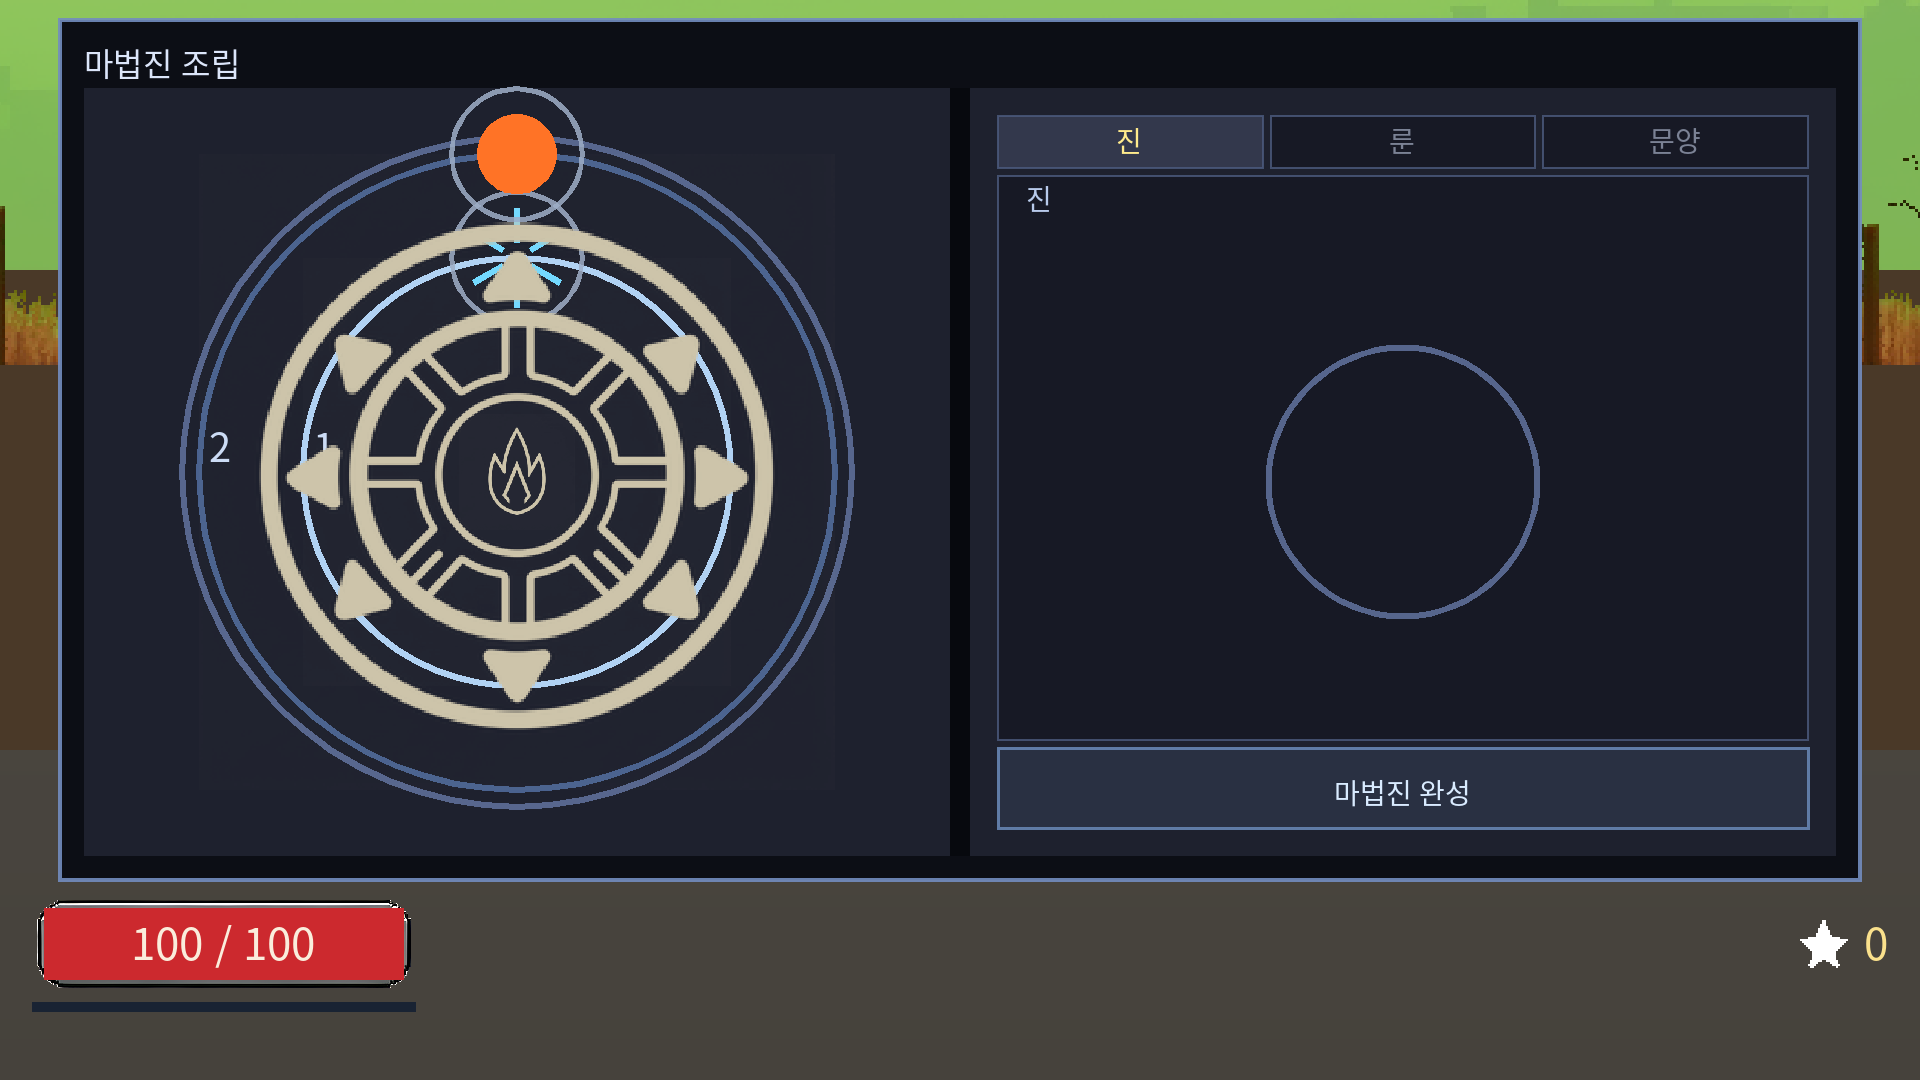
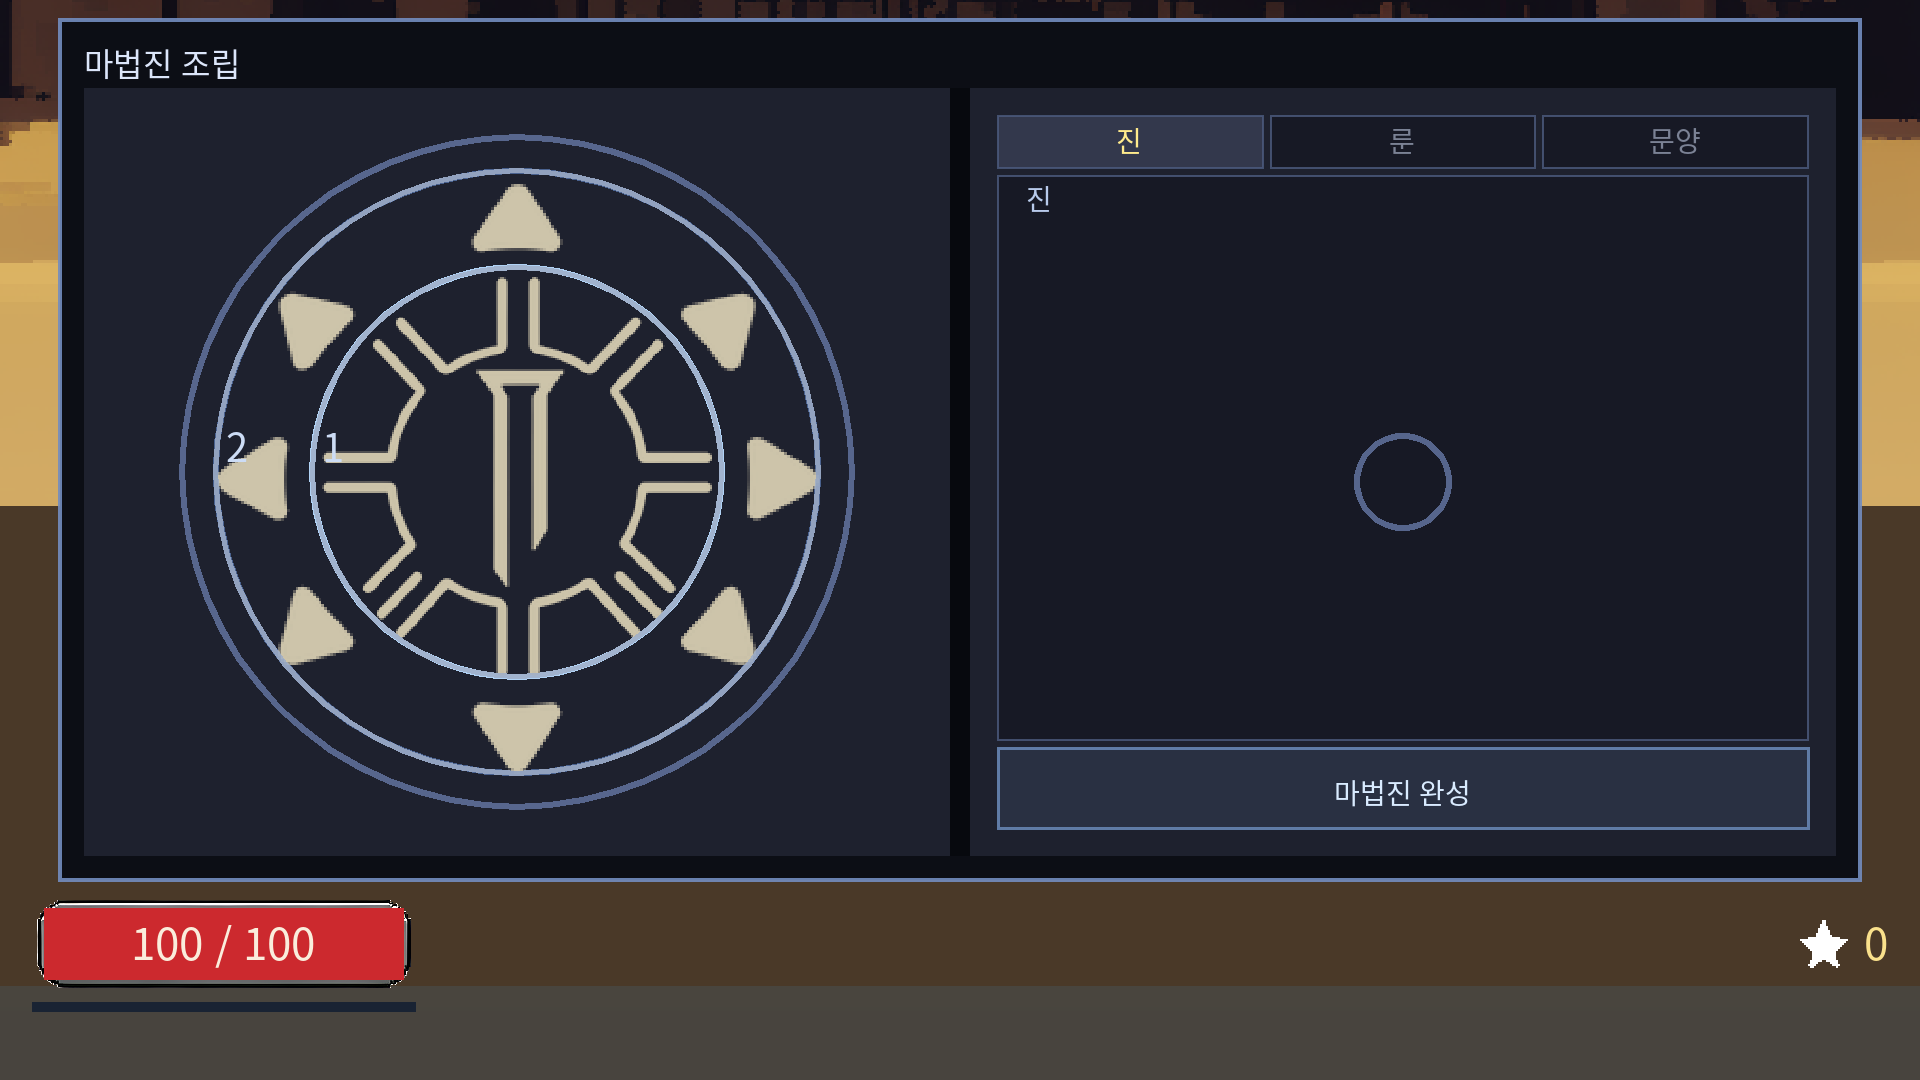
팔레트 카드가 칸 하나를 통째로 먹고 있었다
진 탭은 항목이 하나뿐이라 그 칸이 400x300 섹션 전체가 됐고, 카드가 반지름 78의
거대한 링으로 그려졌다. item_symbol_radius 의 「섹션 높이가 언제나 짧은 변」이라는
전제가 탭 띠와 완성 버튼이 생기면서 깨져 있었다. 칸은 정사각으로 자르고 상한을 둔다.

넷은 바뀐 계약을 따라간다 — 빈 자리 링은 밴드 중심과 바깥 모서리에 그려지고,
문양 그림은 motif_ 로 이름이 바뀌었다. 후자는 한 쌍도 못 찾아 아무것도 안 재고 있었다.

8,484 검사 · 0 실패 · 38 그물 · 23.2s

Claude-Session: https://claude.ai/code/session_017xkQ512gLvNG4bnZt7whw9

diff --git a/tools/submission/shots.py b/tools/submission/shots.py
@@ -10,7 +10,7 @@ Two steps, and the second is the reason this file exists rather than the .gd alo
    markdown would let the page break between them, and then the claim ("this circle makes
    that hole") is split across a page boundary with nothing tying the halves together.
 
-The parts are deleted afterwards. Only what `plan.md` names survives.
+The parts stay on disk (gitignored) so `--compose-only` can re-crop without re-running the engine.
 """
 
 import subprocess
@@ -29,10 +29,10 @@ ORDERS = ["spread-blast", "blast-spread"]
 # The assembly window's left pane, in the 1920x1080 capture. The circle is drawn centred in
 # it, so the crop is a square around the circle rather than the pane's own rectangle —
 # cropping the pane would carry its empty right half into a figure that is already wide.
-CIRCLE_CROP = (210, 110, 870, 770)
+CIRCLE_CROP = (120, 85, 940, 905)
 # The world half. **Its left edge is past x=430 deliberately** — the health gauge sits in the
 # bottom-left of every capture, and a gauge inside a figure about terrain is noise.
-FX_CROP = (760, 390, 1600, 950)
+FX_CROP = (560, 400, 1700, 960)
 
 GAP = 24
 BG = (22, 24, 29)
@@ -75,8 +75,8 @@ def compose(name: str) -> Path:
     dst = IMG / ("order-%s.png" % name)
     out.save(dst)
     print("[shots] %s  %dx%d" % (dst.name, out.width, out.height))
-    circle_src.unlink()
-    fx_src.unlink()
+    # **The parts are kept, not deleted.** Cropping is what actually gets iterated on, and
+    # deleting them made every crop tweak cost a full engine run. They are gitignored.
     return dst
 
 

diff --git a/docs/submission/plan.md b/docs/submission/plan.md
@@ -12,7 +12,7 @@
 
 ## 개요
 
-장르는 2D 횡스크롤 로그라이크다. **1인이 9일 만에 만들었다.**
+장르는 2D 횡스크롤 로그라이크다. **1인이 8일 만에 만들었다.**
 
 마법진을 직접 조립해 나만의 마법을 만드는 것이 이 게임의 핵심 재미다.
 
@@ -65,14 +65,14 @@
 같은 자리에 같은 횟수를 쐈고, 바꾼 것은 층 순서뿐이다.
 
 확산 다음 폭발이면, 맞은 자리에서 여덟 갈래로 흩어지고 그 여덟이 각각 터진다.
-얕고 넓게, 여러 군데가 파인다.
+여러 군데에서 동시에 터진다.
 
-![확산 다음 폭발. 실제 게임 화면이다](img/order-spread-blast.png)
+![확산 다음 폭발. 여덟 갈래가 각각 터지는 순간이다. 실제 게임 화면](img/order-spread-blast.png)
 
 폭발 다음 확산이면, 맞은 자리에서 먼저 크게 터지고 거기서 여덟 갈래가 흩어진다.
-한 군데가 깊게 파인다.
+한 군데가 크게 터지고 불씨가 퍼진다.
 
-![폭발 다음 확산. 실제 게임 화면이다](img/order-blast-spread.png)
+![폭발 다음 확산. 한 번 크게 터지고 거기서 흩어지는 순간이다. 실제 게임 화면](img/order-blast-spread.png)
 
 그래서 조합이 아니라 순열이다. 문양이 셋이면 여섯 가지, 넷이면 스물네 가지가 된다.
 문양을 몇 장 얻었느냐보다 어떤 순서로 쌓았느냐가 빌드를 가른다.
@@ -168,7 +168,7 @@
 
 ## 아직 아닌 것
 
-**1인 개발, 9일이다.** 그 안에 넣을 수 있는 것을 넣었고, 아이디어는 있었으나 시간이 모자라
+**1인 개발, 8일이다.** 그 안에 넣을 수 있는 것을 넣었고, 아이디어는 있었으나 시간이 모자라
 못 넣은 것을 여기 적는다. 숨기고 빌드를 열게 하는 것보다 낫다.
 
 - **스테이지는 1개다.** 스테이지 2는 물을 이동 수단으로 쓸 자리이고, 그 문법은 스테이지 1의 물속 무한 점프에 이미 들어가 있다
